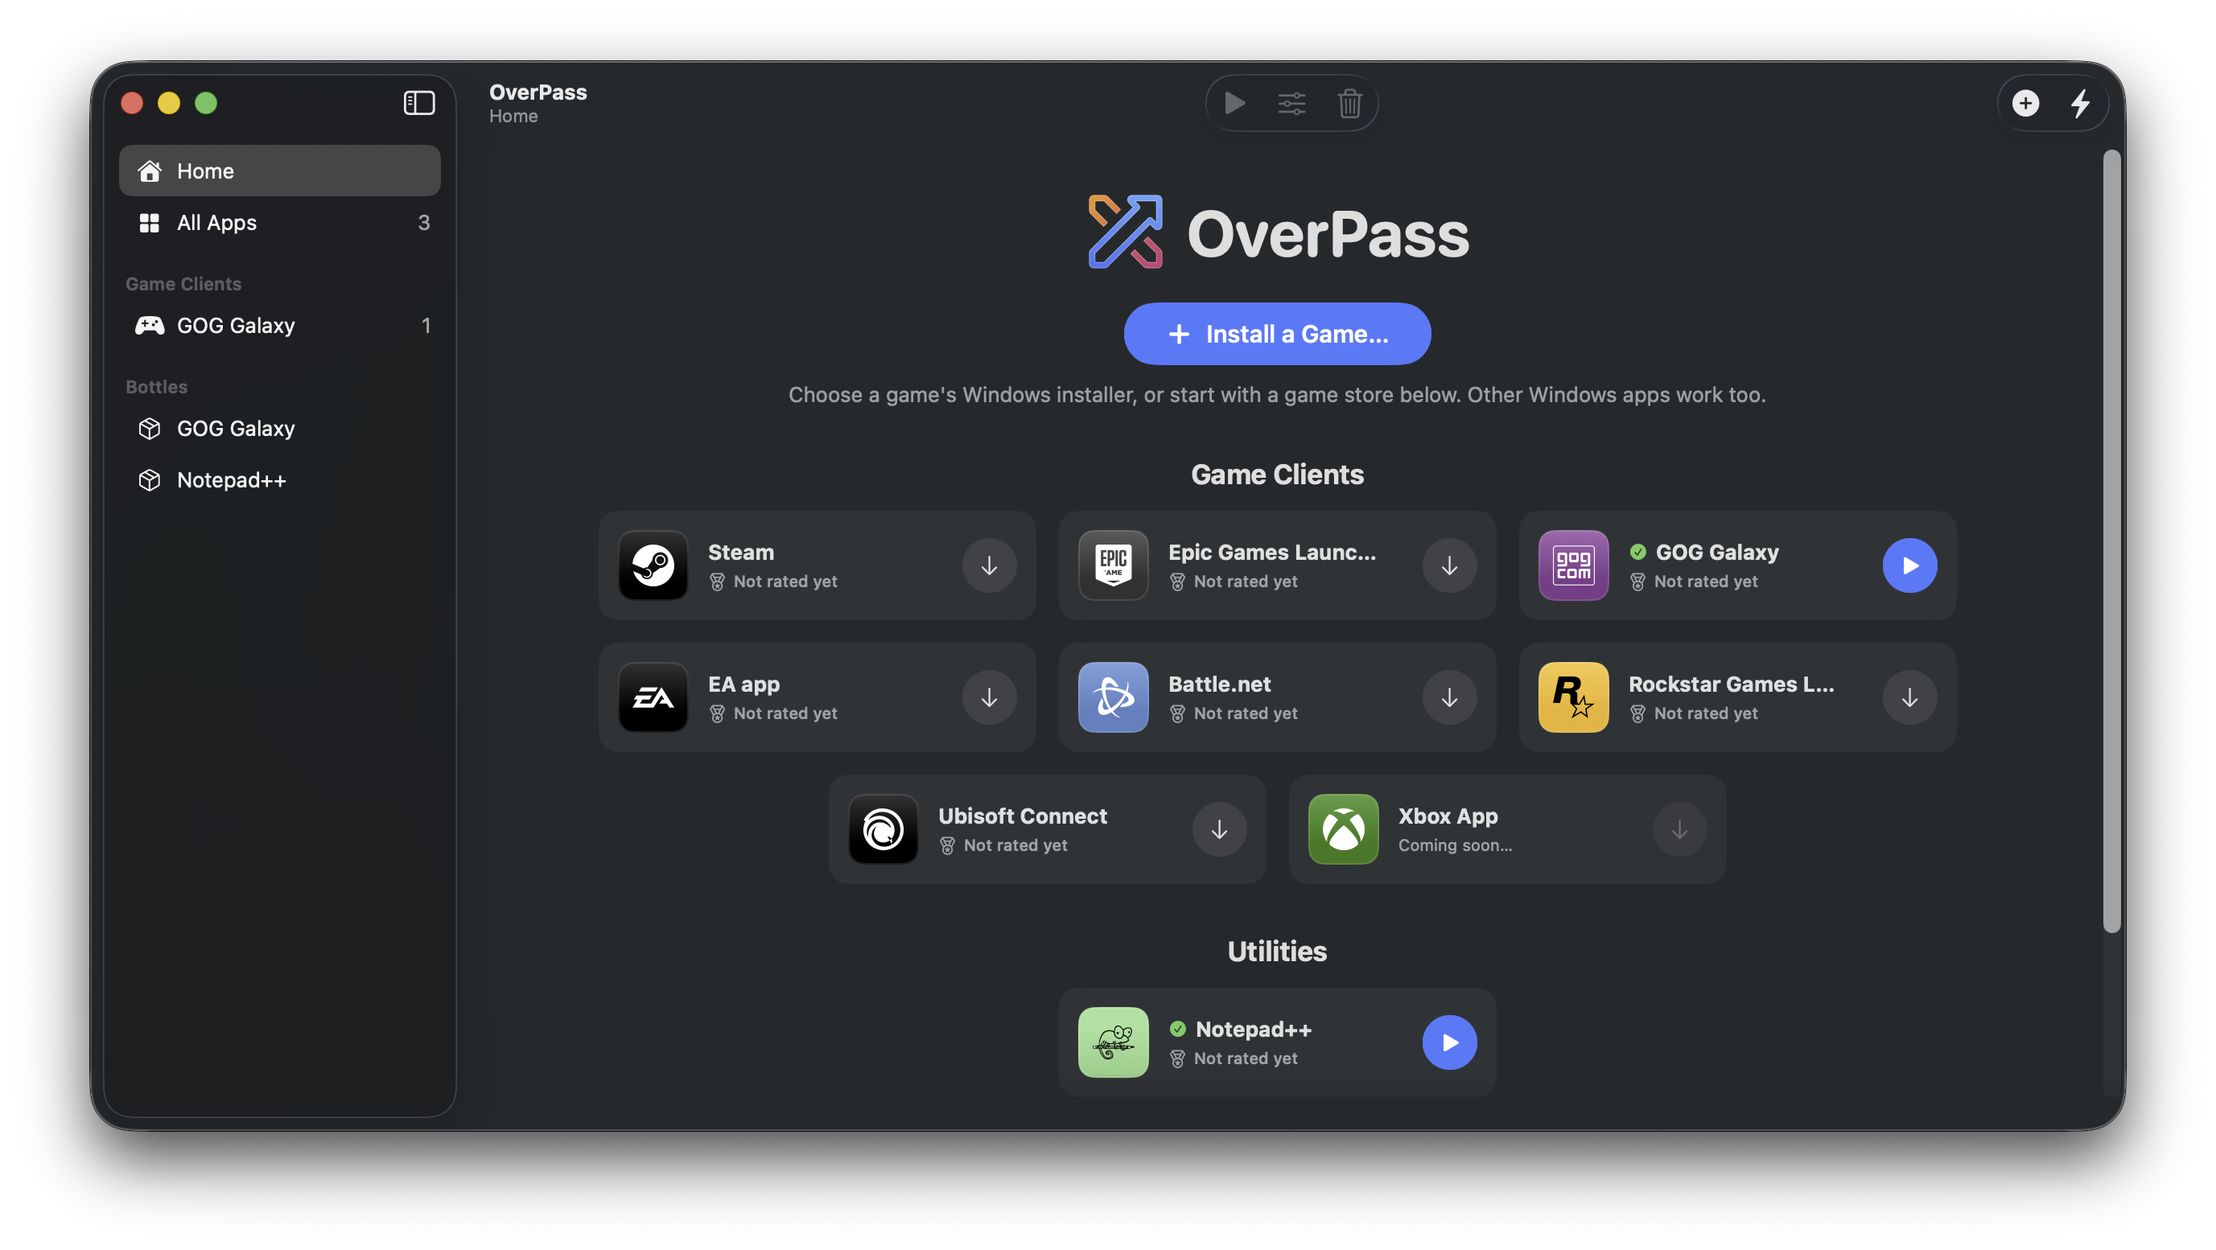
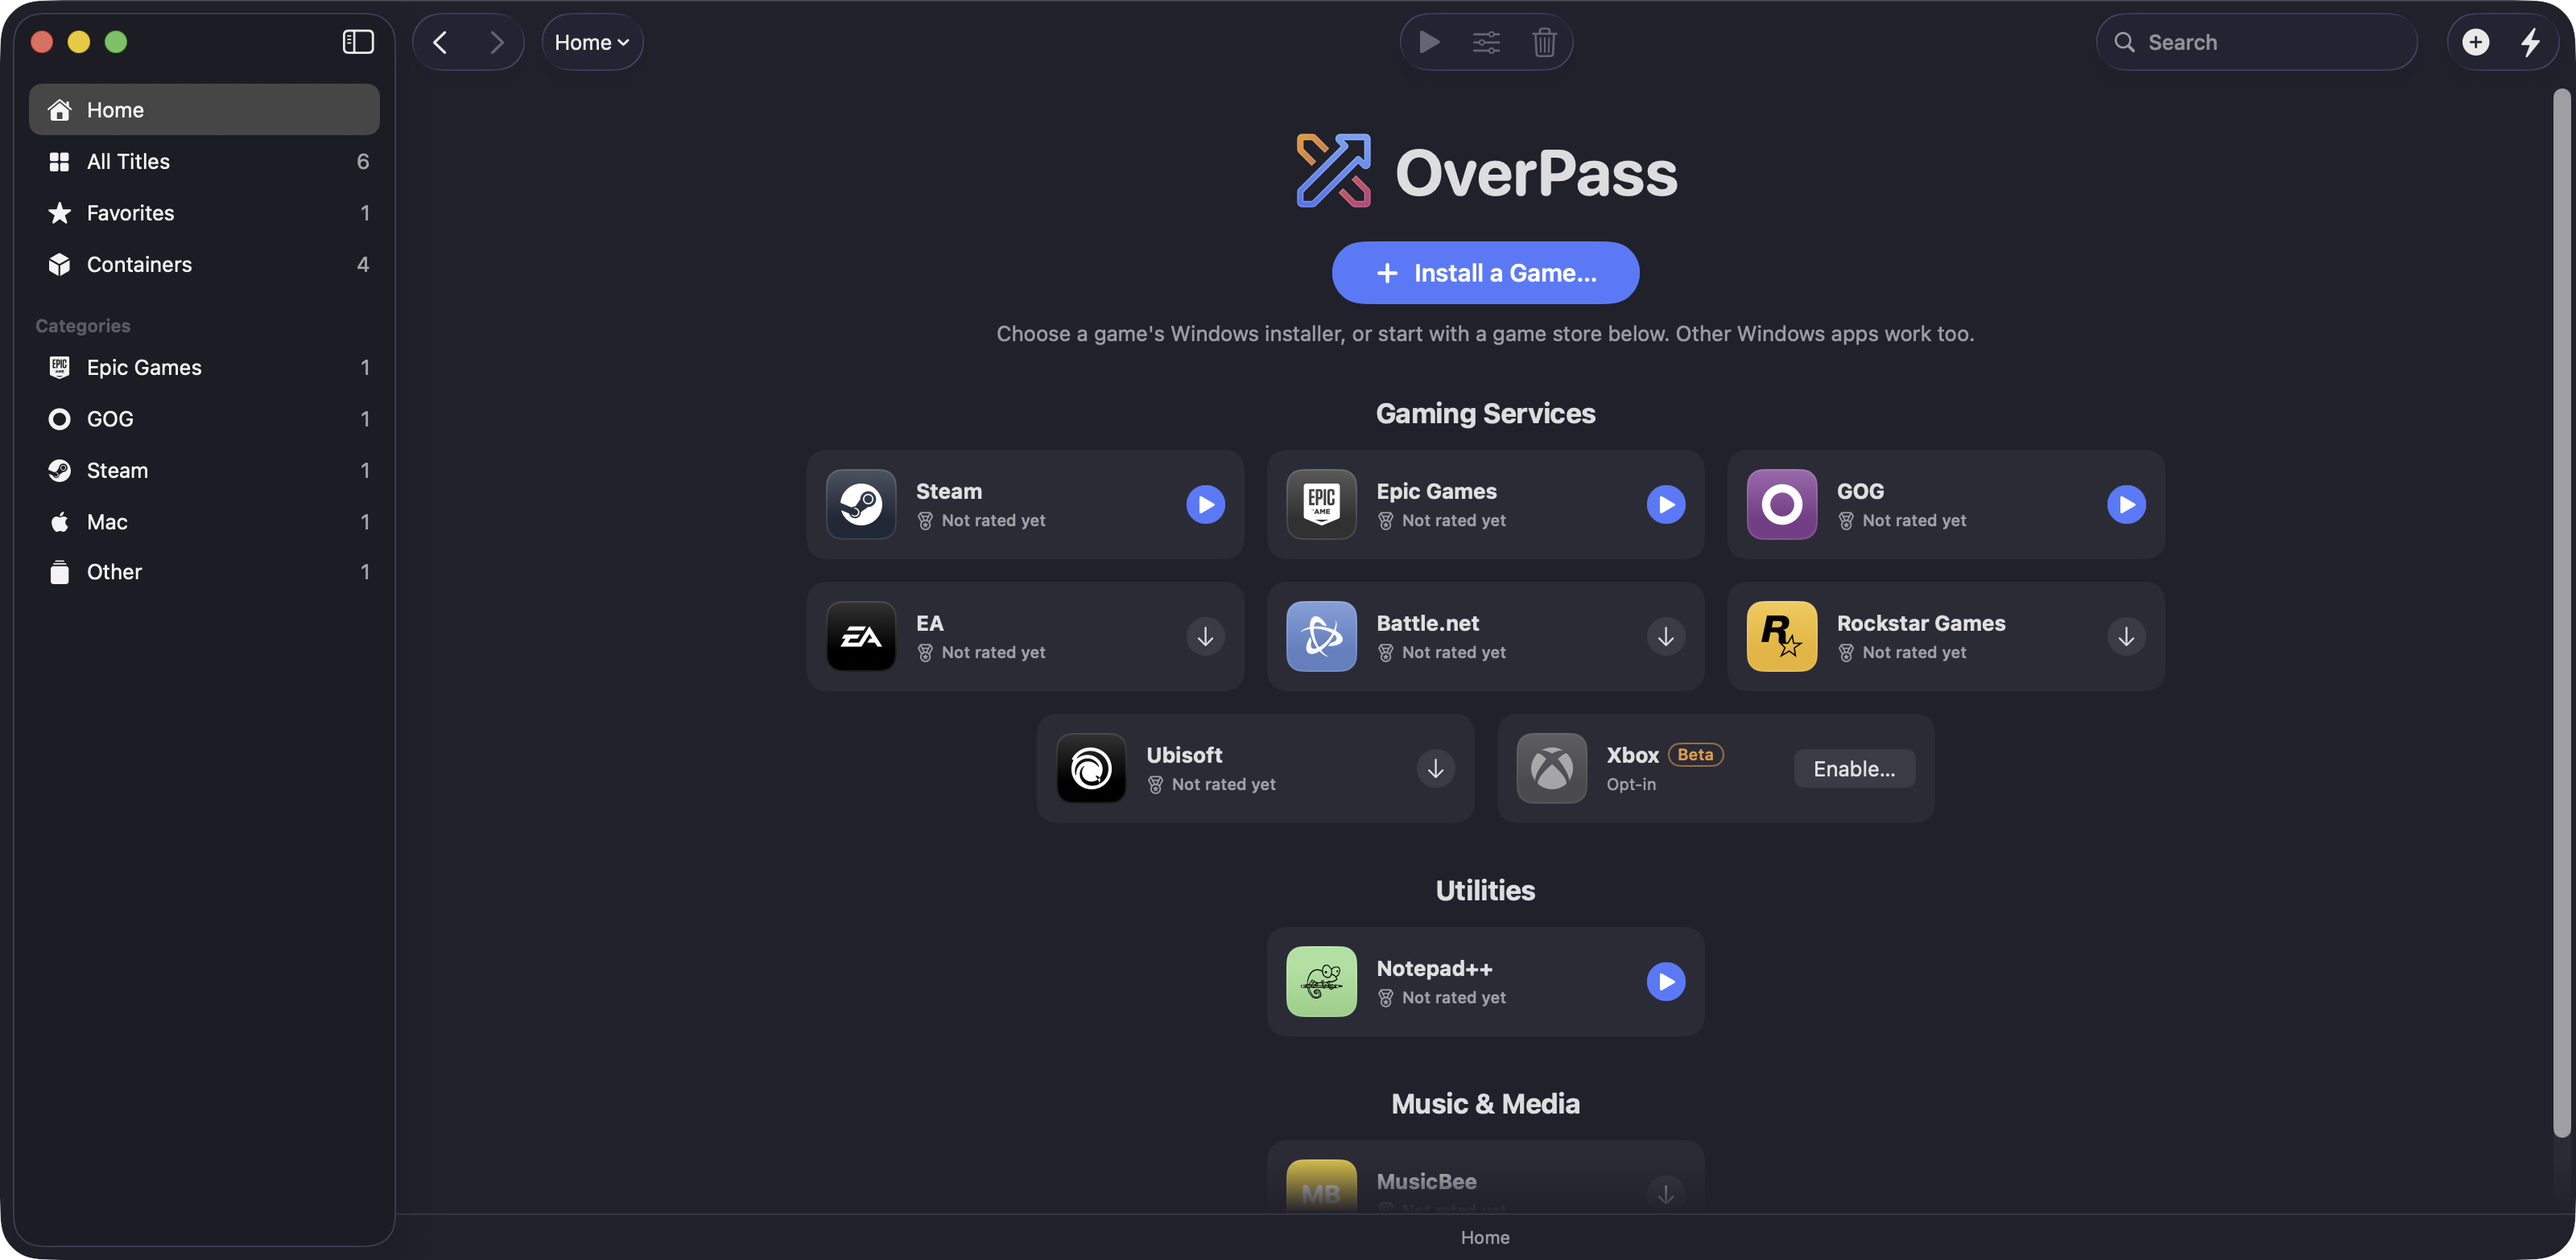
README and screenshots for 0.5.0

diff --git a/README.md b/README.md
@@ -4,7 +4,7 @@
 
 Run Windows games on your Mac without managing Wine yourself. Pick a game or launcher, click Install, and OverPass downloads Wine, makes a container for it, installs the runtimes it needs and adds it to your library.
 
-Version 0.3.0. Made by [Arctic Imaginarium](https://arctim.no). Landing page: [overpass.arctim.no](https://overpass.arctim.no).
+Version 0.5.0. Made by [Arctic Imaginarium](https://arctim.no). Landing page: [overpass.arctim.no](https://overpass.arctim.no).
 
 OverPass is built on Wine, DXMT and many other open-source projects: see [CREDITS](CREDITS.md), and please support them too.
 
@@ -35,6 +35,7 @@ Something not working? See [Troubleshooting](docs/troubleshooting.md), or use Re
 **Library**
 - Home and library views as icons, list, rows or covers, with a status bar and sort menu.
 - Cover art from the stores, with game-case and 3D-case styles, or your own cover and icon.
+- The list view shows each game's container, its game engine (Unity, Unreal Engine, Godot and more, found from its files) and graphics backend.
 - Sidebar categories for each store, Favorites, your own categories, Mac apps and other titles.
 - Uninstall from the library, the sidebar or the File menu.
 
@@ -61,7 +62,7 @@ Something not working? See [Troubleshooting](docs/troubleshooting.md), or use Re
 
 **Stores**
 - Steam, Epic Games, GOG, EA, Battle.net, Ubisoft and Rockstar install in one click.
-- GOG library inside OverPass: sign in, see what you own, then install and launch without GOG Galaxy. Epic works the same way (Beta).
+- GOG library inside OverPass: sign in, see what you own, then install and launch without GOG Galaxy. Epic works the same way (Beta). Installed Only hides the games you haven't installed.
 - Xbox (Beta, opt-in): off by default, enabled from Home after you accept the risks.
 
 **Updates and reports**
@@ -71,17 +72,17 @@ Something not working? See [Troubleshooting](docs/troubleshooting.md), or use Re
 
 ## Screenshots
 
-Home lists featured games and launchers. Pick one and click Install:
+Home lists the game stores and featured apps. Pick one and click Install, or Run once it's there:
 
-![Home: featured games and launchers, each with an Install button](docs/screenshots/home.png)
+![Home: game stores and featured apps](docs/screenshots/home.png)
 
-The library holds everything you have installed, grouped by category:
+Everything you have installed, from every store, as covers in cases named after where each game comes from:
 
-![Library: installed games and apps](docs/screenshots/library.png)
+![All Titles: games from Epic Games, GOG and Steam, a Windows app and a Mac game](docs/screenshots/library.jpg)
 
-The profile editor changes a program's Windows version, runtimes, environment, DLL overrides and graphics backend:
+Sign in to GOG or Epic Games and your whole library shows up. Install games straight from OverPass, no launcher needed:
 
-![Profile editor](docs/screenshots/editor.png)
+![The GOG library: installed games with Play, the rest with Install](docs/screenshots/gog.jpg)
 
 [More screenshots…](docs/SCREENSHOTS.md)
 

diff --git a/docs/SCREENSHOTS.md b/docs/SCREENSHOTS.md
@@ -2,14 +2,22 @@
 
 OverPass in action. More will be added as OverPass grows.
 
-Home lists featured games and launchers. Pick one and click Install:
+Home lists the game stores and featured apps. Pick one and click Install, or Run once it's there:
 
-![Home: featured games and launchers, each with an Install button](screenshots/home.png)
+![Home: game stores and featured apps](screenshots/home.png)
 
-The library holds everything you have installed, grouped by category:
+Everything you have installed, from every store, as covers in cases named after where each game comes from:
 
-![Library: installed games and apps](screenshots/library.png)
+![All Titles: games from Epic Games, GOG and Steam, a Windows app and a Mac game](screenshots/library.jpg)
 
-The profile editor changes a program's Windows version, runtimes, environment, DLL overrides and graphics backend:
+Sign in to GOG or Epic Games and your whole library shows up. Install games straight from OverPass, no launcher needed:
 
-![Profile editor](screenshots/editor.png)
+![The GOG library: installed games with Play, the rest with Install](screenshots/gog.jpg)
+
+The list view shows each title's container, the game engine OverPass found and its graphics backend:
+
+![List view with Container, Engine and Graphics columns](screenshots/list.png)
+
+Each game has its own settings: graphics backend per Direct3D version, faster x87 math, a resolution cap and more:
+
+![A game's settings: Graphics & Sound](screenshots/editor.png)
